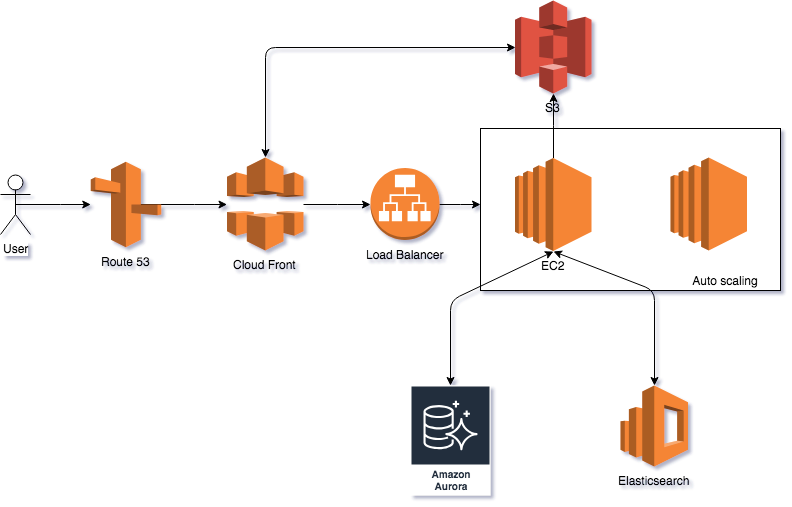
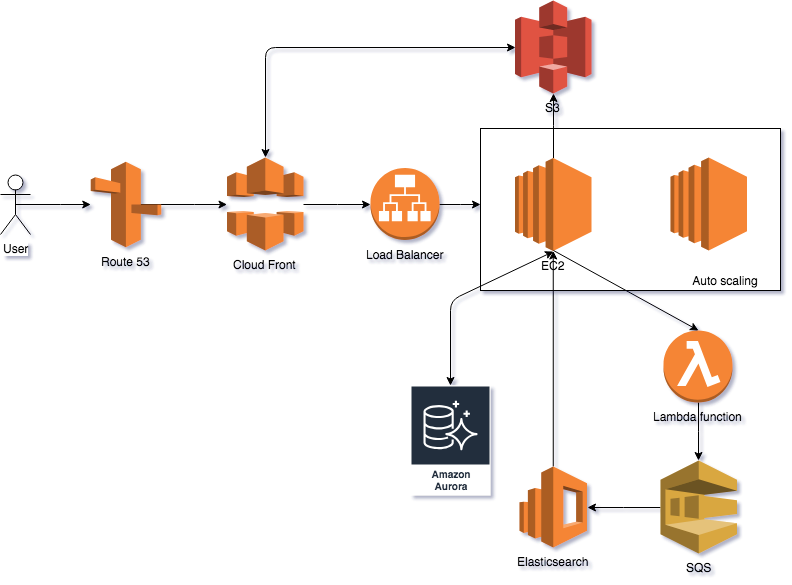
Improve architecture and scaling section

diff --git a/README.md b/README.md
@@ -47,7 +47,7 @@ These are the current features and sections developed:
 ### Limitations
 Twitch API has some limitations. There is no way to link the current live stream with the video that is going to be stored for the stream, a workaround to this limitation is to assume that latest video created is the video for the stream, but this only works if the streamer has activated 'Archive broadcasts' option.
 
-Another limitation is the Screenshot retrieved from the stream when a note is created because isn't taken at the current time, it is cached like 10 minutes so the image of the note doesn't really represent the moment when the note was created.
+Another limitation is that the screenshot retrieved from the stream when a note isn't taken at the current time, it is cached like 10 minutes so the image of the note doesn't really represent the moment when the note was created.
 
 ## How to run the project
 Make sure you have installed `composer`, `npm` and `Node.js`, also a database server running like `PostgreSQL` or `MySQL`.
@@ -71,23 +71,26 @@ npm run dev
 # Go to http://localhost to see the app running
 ```
 
-## Architecture
-The proposed architecture for the platform on AWS is as follows:
-
-![AWS Architecture](http://glacial-coast-30412.herokuapp.com/images/tnotes.png)
-
-## Scaling the platform
-With a lot of traffic and requests the load to the EC2 instances could be very costly and pron to failure. To scale going, for example, from 100 reqs/day to 900MM reqs/day over 6 months, a good approach could be creating a serverless architecture using AWS Lambda functions, saving a lot of resources and with the advantage of automatic scaling. To create lambdas we could use Lumen, a lighter version of laravel. The frontend could be developed entirely with Vue.js and stored on S3 as static files, to save processing resources. The databse could be DynamoDB since it can handle more than 10 trillion requests per day and fits with a serverless architecture.
-
 ## Next steps
 This project is a WIP so here you can find listed some future features:
 
-* Link note with stored video.
+* Link note during live stream to related stored video.
 * Add notes to past events.
 * Create a marker before adding text to the note, so the time of creation will be more accurate.
 * Search and paginate notes.
 * Watch stored videos with notes popping up at the time it was created during stream.
 * Share notes with friends: this feature requires more social network functionalities such as connect users.
+
+## Architecture and scaling
+The considerations for the proposed architecture are taking into account the finished application with all future features finished (see Next steps) and the application going from 100 reqs/day to 900MM reqs/day over 6 months. 
+
+AWS services like EC2 and AuroraDB have the advantage of auto scaling, so everytime the demand of your application increases, services can scale automatically. Additionally With services like a CDN and load balancers, scaling a platform has become an easy task.
+
+Elasticsearch is used to make faster indexing and search, but it can provoke a possible bottleneck during the writing process, so for that reason SQS is used through a lambda function, to avoid the insertion in Aurora to be delayed by inserting and indexing in Elasticsearch.
+
+The proposed architecture for production on AWS is as follows:
+
+![AWS Architecture](http://glacial-coast-30412.herokuapp.com/images/tnotes.png)
 
 ## Conclusions
 Since this was a PoC for the technical feasibility, the idea is yet to be validated with users to know if they would use a tool like this. The gaming and streaming industry is still growing and evolving, so some new discoveries could be made by experimenting.
